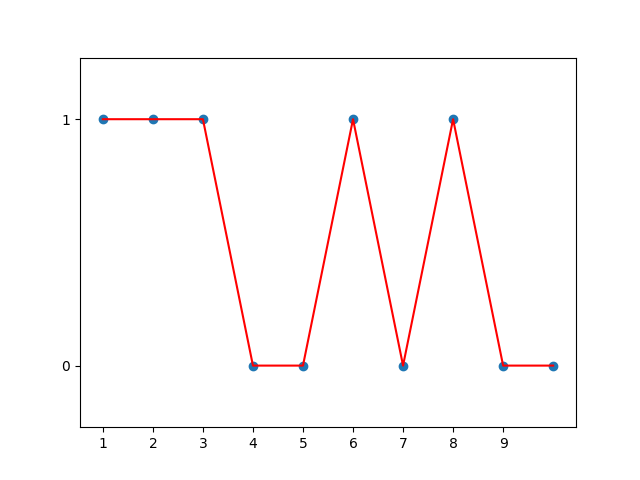
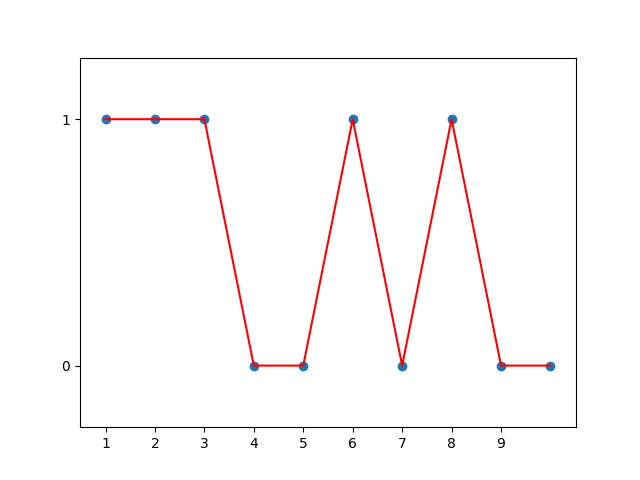
updated readme

diff --git a/analytics/parsing.py b/analytics/parsing.py
@@ -31,8 +31,8 @@ def userplot(user_place):
 	for i in range(1, index+1):
 		x_list.append(i)
 
-	plt.scatter(x_list, responselist)
 	plt.plot(x_list, responselist, 'r-')
+	plt.scatter(x_list, responselist)
 	plt.xticks(list(range(1, numquestions)))
 	plt.ylim(-0.25, 1.25)
 	plt.yticks([0,1])
@@ -88,5 +88,4 @@ def averagesclass():
 
 
 averagesclass()
-
 wholeclassplot()

diff --git a/README.md b/README.md
@@ -1,3 +1,12 @@
-# Rush_Game
+# Rush
 
-Make your students excited with Rush!
+Excite your students with Rush!
+___
+
+Rush is an solution to the inflexibility provided by sites such like [Kahoot](kahoot.it).
+
+Rush provides several game-modes with Analytics.
+
+This lets teachers not only let their students have a great time, but also lets teachers determine what they need to work on. 
+
+Questions can be tagged, as to provide superior analysis.
